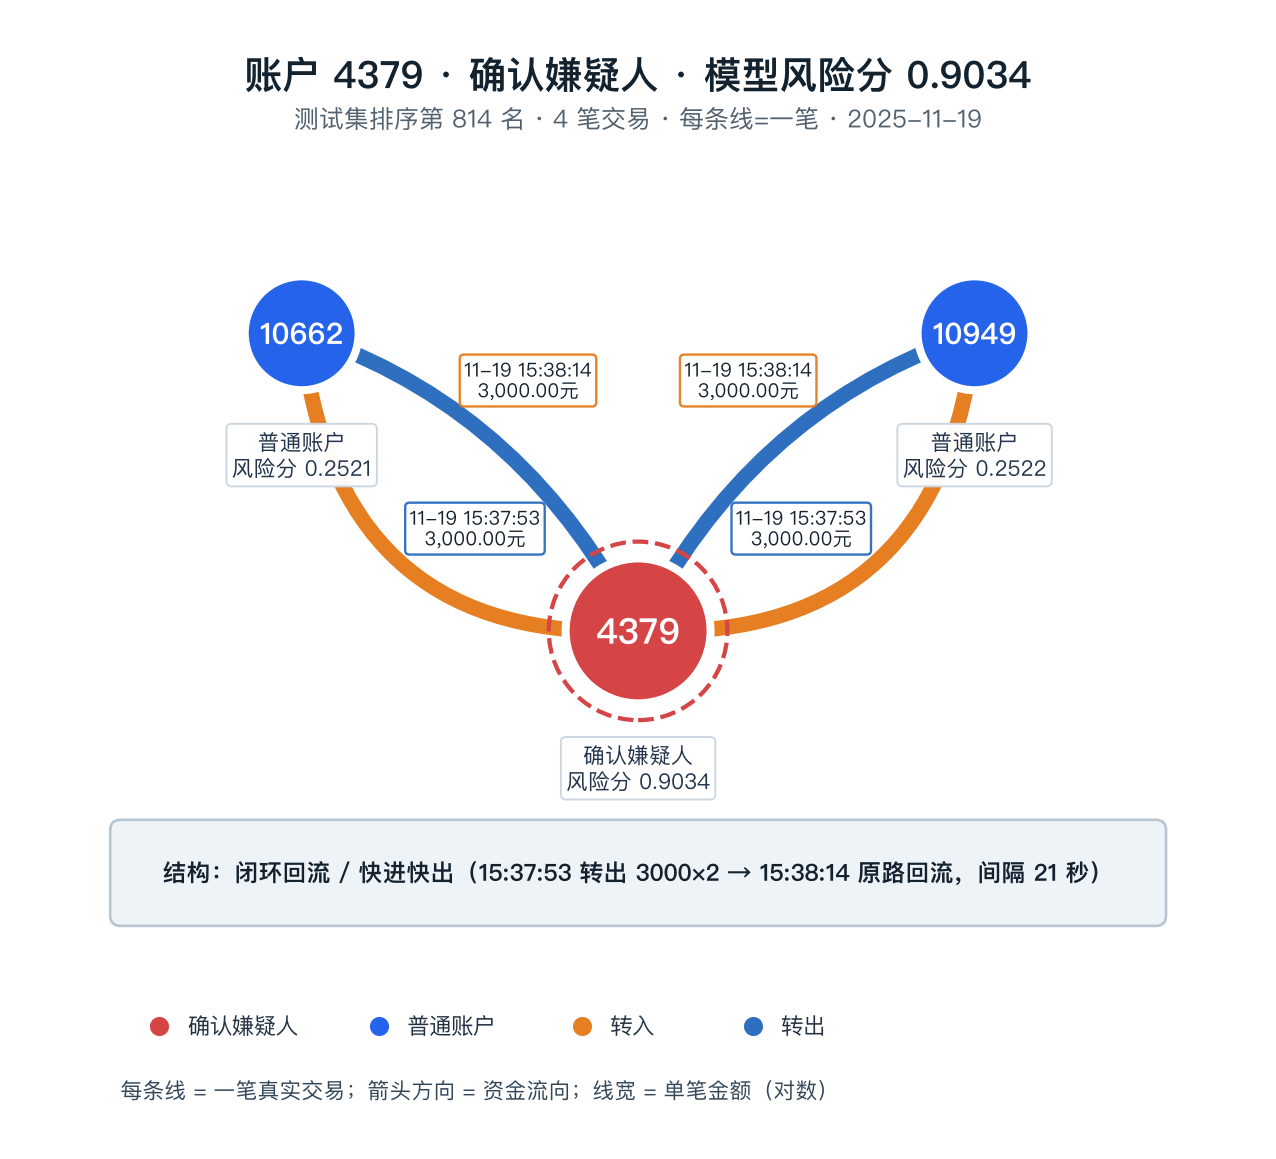
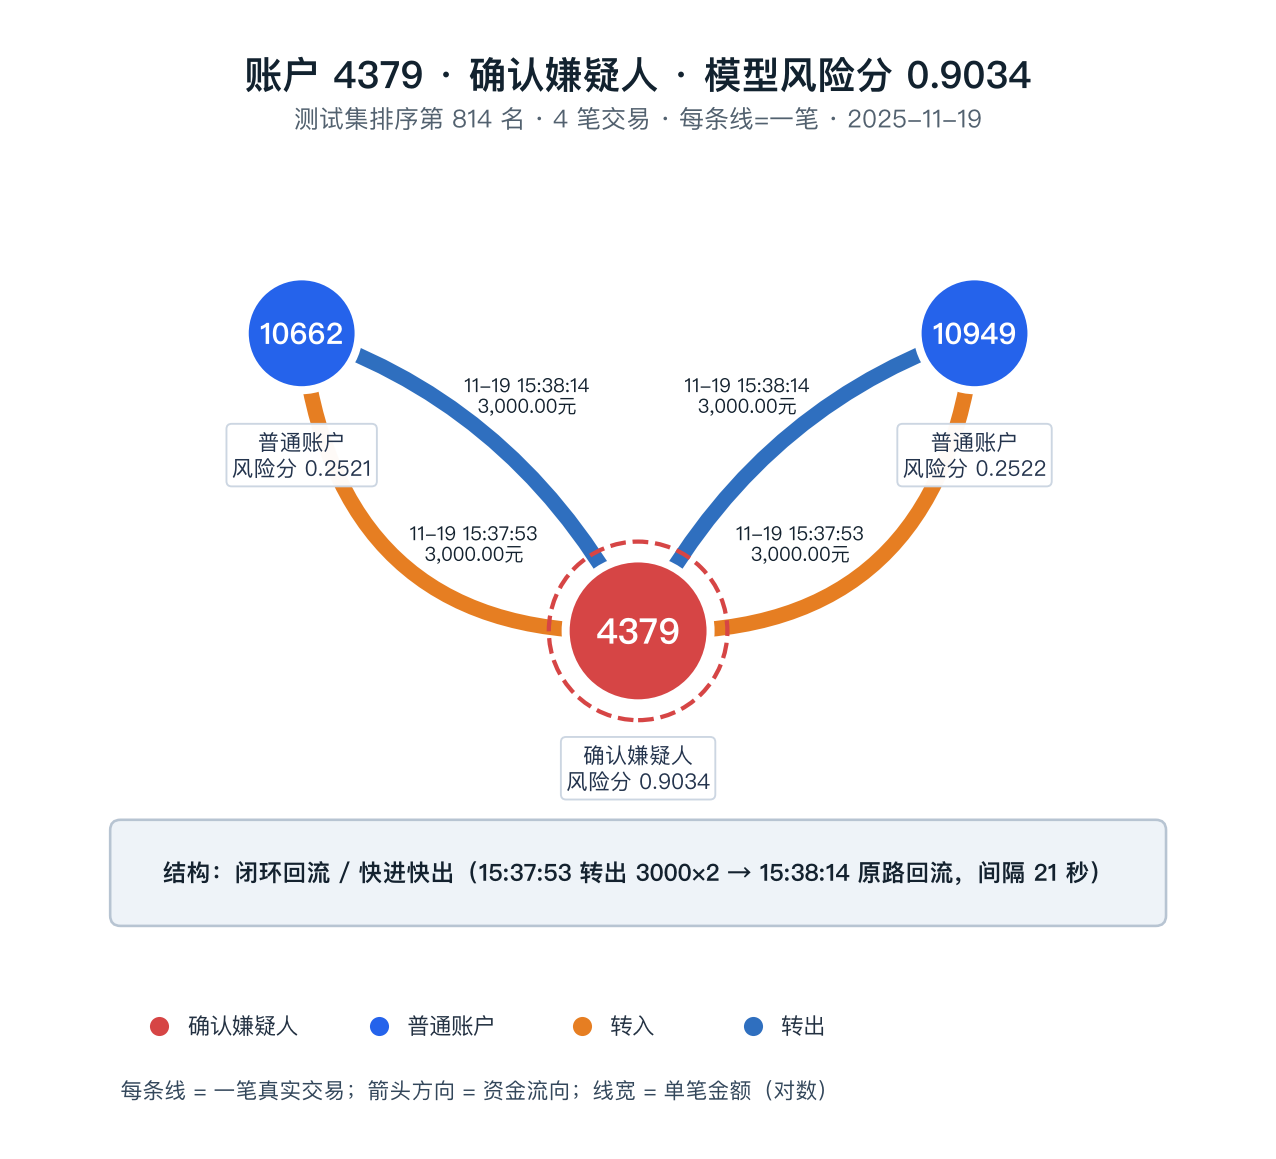
附录D图谱边描述直接写在边上并同步网页说明

diff --git a/outputs/dynamic_graph/index.html b/outputs/dynamic_graph/index.html
@@ -23,7 +23,7 @@
       letter-spacing:0;
     }
     header {
-      position:sticky; top:0; z-index:5; padding:18px 28px 14px;
+      position:relative; padding:18px 28px 14px;
       color:#fff;
       background:
         linear-gradient(135deg, rgba(17,26,36,.98) 0%, rgba(25,49,61,.98) 55%, rgba(28,57,48,.98) 100%),
@@ -213,7 +213,7 @@
   <main id="reportView" class="view wide"><div class="section-head"><div><h2>辅助研判报告</h2><p>报告同时引用模型风险分、交易统计、关键交易边/路径、图结构或动态特征中的至少两类证据。</p></div></div><div id="reportGrid" class="report-grid"></div><div class="subsection"><h3>报告原文</h3><pre id="rawReport" class="raw-report"></pre></div></main>
   
   <main id="evidenceView" class="view wide">
-    <div class="section-head"><div><h2>典型链路证据（测试集真实子图）</h2><p>仅展示本项目从测试集真实交易边生成的资金图谱，数据截至 2025-12-31，不含未来交易。节点颜色：红=确认嫌疑人，橙=受害人，蓝=其它；橙色箭头=转入，蓝色箭头=转出；每条线=一笔真实交易，线宽=单笔金额对数。</p></div></div>
+    <div class="section-head"><div><h2>典型链路证据（测试集真实子图）</h2><p>仅展示本项目从测试集真实交易边生成的资金图谱，数据截至 2025-12-31，不含未来交易。节点颜色：红=确认嫌疑人，橙=受害人，蓝=其它；橙色箭头=转入，蓝色箭头=转出；每条线=一笔真实交易，线宽=单笔金额对数，边描述直接写在边线上（无白色底框，白色描边保证可读性）。</p></div></div>
     <div class="evidence-grid">
       <article class="evidence-card"><img src="../../docs/images/appendix_d_4379_loop.png" alt="账户4379闭环回流"><div class="card-body"><h3>账户 4379 · 确认嫌疑人 · 风险分 0.9034</h3><p>2025-11-19 15:37:53 向 10662、10949 各转出 3000 元，15:38:14 原路回流，间隔 21 秒；结构：闭环回流/快进快出。</p></div></article>
       <article class="evidence-card"><img src="../../docs/images/appendix_d_1740_star.png" alt="账户1740星状汇聚"><div class="card-body"><h3>账户 1740 · 确认嫌疑人 · 风险分 0.7460</h3><p>3863、7838 两个固定对手三期重复转入，合计 18828.88 元；结构：星状汇聚/分散入账。</p></div></article>

diff --git a/src/27_render_appendix_d_graphs.py b/src/27_render_appendix_d_graphs.py
@@ -1,0 +1,193 @@
+"""渲染附录 D 测试集真实资金图谱（每条边=一笔交易，文字直接写在边上）。"""
+
+import math
+import os
+from collections import defaultdict
+
+import matplotlib
+
+matplotlib.use("Agg")
+import matplotlib.patheffects as pe
+import matplotlib.pyplot as plt
+import pandas as pd
+from matplotlib.patches import Circle, FancyArrowPatch, FancyBboxPatch
+
+plt.rcParams["font.sans-serif"] = ["PingFang SC", "Heiti SC", "Songti SC", "Arial Unicode MS"]
+plt.rcParams["axes.unicode_minus"] = False
+
+TX = pd.read_csv("outputs/clean/clean_transactions.csv", parse_dates=["txn_time"])
+LAB = pd.read_csv("outputs/labels/labels_all_strategies.csv")
+SCORES = pd.read_csv("outputs/predictions/model11_validation_selected_best_strategy_A.csv")
+SCORES = SCORES[SCORES["split"].eq("test")].set_index("account_id")["score"].to_dict()
+LABEL = LAB.set_index("account_id")["label_text"].to_dict()
+
+COLOR = {"嫌疑人": "#d64545", "受害人": "#f59e0b", "其它": "#2563eb", "未知": "#7f8c8d"}
+IN_COLOR = "#e67e22"
+OUT_COLOR = "#2f6fbf"
+RAD_SETS = {1: [0.0], 2: [-0.20, -0.46], 3: [-0.12, -0.30, -0.50], 4: [-0.10, -0.24, -0.38, -0.54]}
+
+
+def raw_edges(account_id: int) -> list[dict]:
+    sub = TX[(TX["src_account_id"] == account_id) | (TX["dst_account_id"] == account_id)].copy()
+    rows = []
+    for _, r in sub.iterrows():
+        rows.append(
+            {
+                "src": int(r["src_account_id"]),
+                "dst": int(r["dst_account_id"]),
+                "amount": float(r["amount_abs"]),
+                "time": pd.Timestamp(r["txn_time"]),
+            }
+        )
+    rows.sort(key=lambda x: x["time"])
+    return rows
+
+
+def bezier(p1: tuple, p2: tuple, rad: float, t: float) -> tuple[float, float]:
+    x1, y1 = p1
+    x2, y2 = p2
+    dx, dy = x2 - x1, y2 - y1
+    mx, my = (x1 + x2) / 2, (y1 + y2) / 2
+    cx, cy = mx - rad * dy, my + rad * dx
+    bx = (1 - t) ** 2 * x1 + 2 * t * (1 - t) * cx + t**2 * x2
+    by = (1 - t) ** 2 * y1 + 2 * t * (1 - t) * cy + t**2 * y2
+    return bx, by
+
+
+def draw_node(ax, pos: tuple, aid: int, is_root: bool = False) -> None:
+    x, y = pos
+    label = LABEL.get(aid, "未知")
+    color = COLOR.get(label, "#7f8c8d")
+    r = 0.56 if is_root else 0.44
+    ax.add_patch(Circle((x, y), r, facecolor=color, edgecolor="white", linewidth=3.4, zorder=6))
+    if is_root:
+        ax.add_patch(Circle((x, y), r + 0.13, facecolor="none", edgecolor=color,
+                            linewidth=1.8, linestyle="--", zorder=5))
+    ax.text(x, y, str(aid), ha="center", va="center", fontsize=15 if is_root else 12.5,
+            fontweight="bold", color="white", zorder=7)
+    badge = {"嫌疑人": "确认嫌疑人", "受害人": "受害人", "其它": "普通账户"}.get(label, label)
+    score = SCORES.get(aid)
+    lines = f"{badge}\n风险分 {score:.4f}" if score is not None else badge
+    ax.text(x, y - r - 0.30, lines, ha="center", va="top", fontsize=9.2, linespacing=1.2,
+            color="#24344d", zorder=7, bbox=dict(boxstyle="round,pad=0.24", fc="white",
+                                                 ec="#cbd5e1", lw=0.8, alpha=0.97))
+
+
+def draw_edges(ax, pos, edges: list[dict], root: int, label_fn, fontsize: float) -> None:
+    pair_index = defaultdict(int)
+    pair_count = defaultdict(int)
+    for e in edges:
+        pair_count[(min(e["src"], e["dst"]), max(e["src"], e["dst"]))] += 1
+    max_amount = max(e["amount"] for e in edges) if edges else 1.0
+    max_log = math.log1p(max_amount)
+    left_id = min(pos, key=lambda k: pos[k][0])
+    for e in edges:
+        u, v = e["src"], e["dst"]
+        p1, p2 = pos[u], pos[v]
+        pair = (min(u, v), max(u, v))
+        idx = pair_index[pair]
+        pair_index[pair] += 1
+        side = -1 if (u == left_id or v == left_id) else 1
+        rad = side * RAD_SETS[pair_count[pair]][idx]
+        t = 0.40 + 0.07 * idx
+        incoming = v == root
+        color = IN_COLOR if incoming else OUT_COLOR
+        width = 2.0 + 4.5 * math.log1p(e["amount"]) / max_log
+        ru = 0.66 if u == root else 0.54
+        rv = 0.66 if v == root else 0.54
+        arrow = FancyArrowPatch(p1, p2, connectionstyle=f"arc3,rad={rad}",
+                                arrowstyle="-|>", mutation_scale=24, lw=width,
+                                color=color, shrinkA=ru, shrinkB=rv, zorder=4)
+        ax.add_patch(arrow)
+        lx, ly = bezier(p1, p2, rad, t)
+        ax.text(lx, ly, label_fn(e, incoming), ha="center", va="center", fontsize=fontsize,
+                linespacing=1.12, color="#14222f", zorder=8,
+                path_effects=[pe.withStroke(linewidth=3.2, foreground="white")])
+
+
+def draw_frame(ax, title: str, subtitle: str, structure: str) -> None:
+    ax.text(0, 4.30, title, ha="center", va="center", fontsize=16, fontweight="bold", color="#12222f")
+    ax.text(0, 3.96, subtitle, ha="center", va="center", fontsize=10.5, color="#52616f")
+    box = FancyBboxPatch((-4.0, -2.20), 8.0, 0.66, boxstyle="round,pad=0.08",
+                         fc="#eef3f8", ec="#b7c4d2", lw=1.1)
+    ax.add_patch(box)
+    ax.text(0, -1.87, structure, ha="center", va="center", fontsize=10,
+            fontweight="bold", color="#14222f")
+    legend = [("确认嫌疑人", COLOR["嫌疑人"]), ("普通账户", COLOR["其它"]),
+              ("转入", IN_COLOR), ("转出", OUT_COLOR)]
+    lx = -4.0
+    for text, color in legend:
+        ax.scatter([lx + 0.30], [-3.05], s=90, color=color, edgecolors="white",
+                   linewidths=1.4, zorder=6)
+        ax.text(lx + 0.52, -3.05, text, ha="left", va="center", fontsize=9.5, color="#233142")
+        lx += 0.52 + len(text) * 0.125 + 0.55
+    ax.text(-4.0, -3.55, "每条线 = 一笔真实交易；箭头方向 = 资金流向；线宽 = 单笔金额（对数）",
+            ha="left", va="center", fontsize=9.2, color="#33475b")
+
+
+def render(root: int, positions: dict, title: str, subtitle: str, structure: str,
+           out_path: str, label_fn, fontsize: float = 8.2) -> None:
+    edges = raw_edges(root)
+    fig, ax = plt.subplots(figsize=(13.2, 8.6), dpi=170)
+    ax.set_xlim(-4.8, 4.8)
+    ax.set_ylim(-3.95, 4.75)
+    ax.set_aspect("equal")
+    ax.axis("off")
+    draw_edges(ax, positions, edges, root, label_fn, fontsize)
+    for aid, p in positions.items():
+        draw_node(ax, p, aid, is_root=(aid == root))
+    draw_frame(ax, title, subtitle, structure)
+    plt.savefig(out_path, bbox_inches="tight", facecolor="white")
+    plt.close(fig)
+    print("saved", out_path, "edges", len(edges))
+
+
+def fmt_amount(v: float) -> str:
+    if v >= 1e4:
+        return f"{v / 1e4:.2f}万"
+    return f"{v:,.2f}"
+
+
+def main() -> None:
+    os.makedirs("docs/images", exist_ok=True)
+    render(
+        4379,
+        {4379: (0, 0), 10662: (-2.6, 2.3), 10949: (2.6, 2.3)},
+        "账户 4379 · 确认嫌疑人 · 模型风险分 0.9034",
+        "测试集排序第 814 名 · 4 笔交易 · 每条线=一笔 · 2025-11-19",
+        "结构：闭环回流 / 快进快出（15:37:53 转出 3000×2 → 15:38:14 原路回流，间隔 21 秒）",
+        "docs/images/appendix_d_4379_loop.png",
+        lambda e, inc: f"{e['time'].strftime('%m-%d %H:%M:%S')}\n{e['amount']:,.2f}元",
+    )
+    render(
+        1740,
+        {1740: (0, 0), 3863: (-2.6, 2.3), 7838: (2.6, 2.3)},
+        "账户 1740 · 确认嫌疑人 · 模型风险分 0.7460",
+        "测试集排序第 2827 名 · 6 笔交易 · 每条线=一笔 · 2025-07/11/12",
+        "结构：星状汇聚 / 分散入账（3863、7838 各 3 笔转入，合计 18,828.88 元）",
+        "docs/images/appendix_d_1740_star.png",
+        lambda e, inc: f"{e['time'].strftime('%m-%d')}\n{e['amount']:,.2f}元",
+    )
+    render(
+        7265,
+        {7265: (0, 0), 1137: (-2.6, 2.3), 7238: (2.6, 2.3)},
+        "账户 7265 · 确认嫌疑人 · 模型风险分 0.5801",
+        "测试集排序第 4906 名 · 6 笔交易 · 每条线=一笔 · 2025-11/12",
+        "结构：星状试探 / 小额分散转出（向 1137、7238 各转出 3 笔，合计 2,633.40 元）",
+        "docs/images/appendix_d_7265_star.png",
+        lambda e, inc: f"{e['time'].strftime('%m-%d')}\n{e['amount']:,.2f}元",
+    )
+    render(
+        9928,
+        {9928: (0, 0), 3842: (-2.6, 2.3), 5584: (2.6, 2.3)},
+        "Top30 高风险巡检账户 9928 · 标签：其它 · 模型风险分 0.9797",
+        "测试集排序第 73 名 · 8 笔交易 · 每条线=一笔 · 2025-07/08",
+        "结构：双向闭环回流 / 资金归集（转入 4 笔合计 69 万、转出 4 笔合计 180 万）",
+        "docs/images/appendix_d_9928_flow.png",
+        lambda e, inc: f"{e['time'].strftime('%m-%d')} {'转入' if inc else '转出'}\n{fmt_amount(e['amount'])}元",
+        fontsize=7.8,
+    )
+
+
+if __name__ == "__main__":
+    main()

diff --git a/src/09_dynamic_graph_viz.py b/src/09_dynamic_graph_viz.py
@@ -523,7 +523,7 @@ def css() -> str:
       letter-spacing:0;
     }
     header {
-      position:sticky; top:0; z-index:5; padding:18px 28px 14px;
+      position:relative; padding:18px 28px 14px;
       color:#fff;
       background:
         linear-gradient(135deg, rgba(17,26,36,.98) 0%, rgba(25,49,61,.98) 55%, rgba(28,57,48,.98) 100%),
@@ -1075,7 +1075,7 @@ EVIDENCE_CSS = """
 
 EVIDENCE_VIEW = """
   <main id="evidenceView" class="view wide">
-    <div class="section-head"><div><h2>典型链路证据（测试集真实子图）</h2><p>仅展示本项目从测试集真实交易边生成的资金图谱，数据截至 2025-12-31，不含未来交易。节点颜色：红=确认嫌疑人，橙=受害人，蓝=其它；橙色箭头=转入，蓝色箭头=转出；每条线=一笔真实交易，线宽=单笔金额对数。</p></div></div>
+    <div class="section-head"><div><h2>典型链路证据（测试集真实子图）</h2><p>仅展示本项目从测试集真实交易边生成的资金图谱，数据截至 2025-12-31，不含未来交易。节点颜色：红=确认嫌疑人，橙=受害人，蓝=其它；橙色箭头=转入，蓝色箭头=转出；每条线=一笔真实交易，线宽=单笔金额对数，边描述直接写在边线上（无白色底框，白色描边保证可读性）。</p></div></div>
     <div class="evidence-grid">
       <article class="evidence-card"><img src="../../docs/images/appendix_d_4379_loop.png" alt="账户4379闭环回流"><div class="card-body"><h3>账户 4379 · 确认嫌疑人 · 风险分 0.9034</h3><p>2025-11-19 15:37:53 向 10662、10949 各转出 3000 元，15:38:14 原路回流，间隔 21 秒；结构：闭环回流/快进快出。</p></div></article>
       <article class="evidence-card"><img src="../../docs/images/appendix_d_1740_star.png" alt="账户1740星状汇聚"><div class="card-body"><h3>账户 1740 · 确认嫌疑人 · 风险分 0.7460</h3><p>3863、7838 两个固定对手三期重复转入，合计 18828.88 元；结构：星状汇聚/分散入账。</p></div></article>

diff --git a/docs/附录D_资金图谱可视化与缺边审计.md b/docs/附录D_资金图谱可视化与缺边审计.md
@@ -28,7 +28,7 @@
 
 ## 图例与口径说明
 
-节点颜色：**红色=确认嫌疑人，橙色=受害人，蓝色=其它**；节点下方显示账户 ID、标签与模型风险分；橙色箭头=转入，蓝色箭头=转出；**每条线=一笔真实交易**，线宽=单笔金额（对数），边标签显示单笔时间与金额。所有图谱只使用截至测试期截止（2025-12-31）的历史交易，未使用未来交易。
+节点颜色：**红色=确认嫌疑人，橙色=受害人，蓝色=其它**；节点下方显示账户 ID、标签与模型风险分；橙色箭头=转入，蓝色箭头=转出；**每条线=一笔真实交易**，线宽=单笔金额（对数）。边描述直接写在边线上（沿弧线放置，无白色底框），以白色描边保证可读性，显示单笔时间与金额；重复交易使用不同弧度错开，避免文字遮挡节点。所有图谱只使用截至测试期截止（2025-12-31）的历史交易，未使用未来交易。
 
 ## 数据局限与缺边审计
 
@@ -53,4 +53,4 @@
 - 交易数据：`outputs/clean/clean_transactions.csv`
 - 模型分数：`outputs/predictions/model11_validation_selected_best_strategy_A.csv`
 - 缺边审计：`outputs/explanations/layered/confirmed_suspect_explainability_audit.csv`、`outputs/explanations/layered/suspect_link_recovery_queue.csv`
-- 可复现命令：`python src/26_data_edge_coverage_audit.py`（边覆盖审计）、`python src/09_dynamic_graph_viz.py`（动态图谱页面）
+- 可复现命令：`python src/26_data_edge_coverage_audit.py`（边覆盖审计）、`python src/27_render_appendix_d_graphs.py`（附录 D 四张资金图谱）、`python src/09_dynamic_graph_viz.py`（动态图谱页面）
